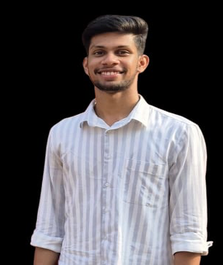
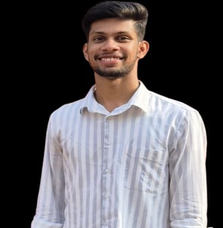
message

diff --git a/style.css b/style.css
@@ -112,12 +112,13 @@ nav ul li a:hover::after{
 }
 .about-col-1 img{
     width: 100%;
-    height: 500px;
+    
 
     border-radius: 15px;
     
 }
 .about-col-2{
+    flex-basis: 60%;
     width: 60%;
 color: grey;
 }
@@ -133,7 +134,7 @@ color: grey;
     .tab-titles{
 
 display: flex;
-margin: 20px 100px 10px;
+margin: 20px 0px 40px;
 color: white;
 
     }
@@ -160,12 +161,12 @@ position: relative;
 }
 .tab-contents ul li{
     list-style: none;
-    margin: 50px 100px;
+    margin: 10px 0px;
 
 }
 .tab-contents ul li span{
     color: #ff004f;
-    font-size: 20px;
+    font-size: 14px;
 
 }
 .tab-contents{
@@ -179,7 +180,7 @@ position: relative;
 
 /* my servies */
 #services{ 
-    padding-top: 30px;
+    padding-top: 30px 0;
 
 
 

diff --git a/index.html b/index.html
@@ -47,7 +47,7 @@
                     <div class="container">
                     <div class="row">
                         <div class="about-col-1">
-                            <img src="images/chair-removebg-preview%20(1).png">
+                            <img src="images/about.jpeg">
                         </div>
                         <div class="about-col-2">
                             <h1 class="sub-title">About Me</h1>
